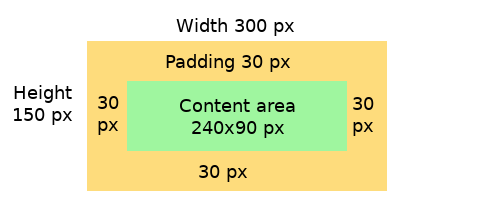
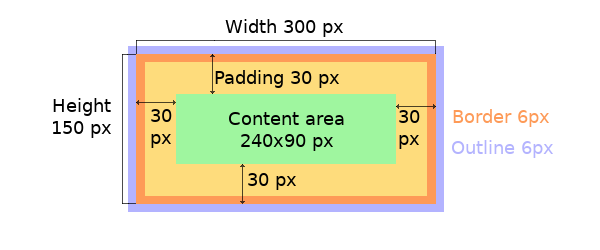
docs minor updates

Changed region(s): [[0.0299, 0.0625, 0.9263, 0.875], [0.3586, 0.4375, 0.5976, 0.5], [0.3884, 0.5312, 0.5677, 0.625]]

diff --git a/docs/overview/coords.md b/docs/overview/coords.md
@@ -23,6 +23,8 @@ An object's "box" is built from the following parts:
 - padding: space between the sides of the object and its children. 
 - content: the content area which size if the bounding box reduced by the size of the paddings.
 
+![The box models of LVGL: The content area is smaller then the bounding box with the padding](/misc/boxmodel.png)
+
 The border is drawn inside the bounding box and doesn't take an extra space. (It's different from CSS in which increasing the border width makes the object larger.)
 
 The outline is drawn outside of the bounding box.

diff --git a/docs/overview/index.md b/docs/overview/index.md
@@ -12,16 +12,19 @@
    :maxdepth: 2
 
    object
+   coords
+   style
+   scroll
    layer
    event
-   style
    indev
    display
    font
    image
    file-system
    animation
-   task
+   timer
    drawing
+   new_widget
 ```
 

diff --git a/docs/overview/style.md b/docs/overview/style.md
@@ -225,6 +225,9 @@ In the documentation of the widgets you will see sentences like "The widget use 
 - Border
 - Outline
 - Shadow
+- Padding
+- Width and height transformation
+- X and Y translation
 
 
 ## Transitions
